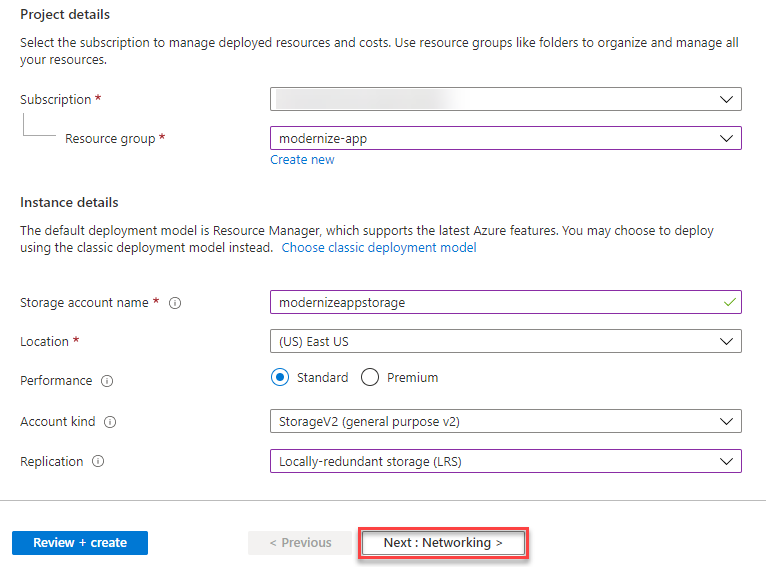
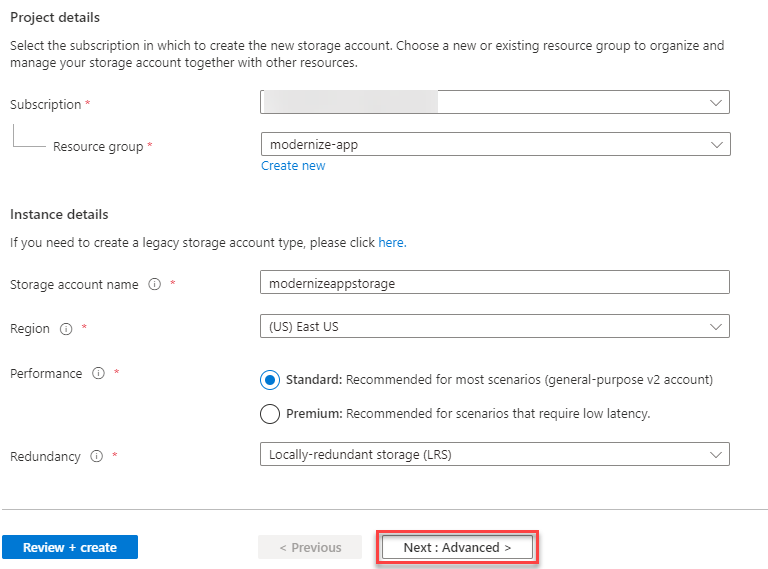
Updating the before-the-lab guide with latest images

diff --git a/Hands-on lab/Before the HOL - Innovate and modernize apps with Data and AI.md b/Hands-on lab/Before the HOL - Innovate and modernize apps with Data and AI.md
@@ -91,7 +91,7 @@ In this task, you will use the Azure Portal to create a new Azure Resource Group
 
 3. In the left-hand menu, select **Resource Groups**.
 
-4. At the top of the screen select the **Add** button.
+4. At the top of the screen select the **+ New** option to add a new resource group.
 
    ![Add Resource Group Menu](media/add-resource-group-menu.png 'Resource Group Menu')
 
@@ -121,25 +121,22 @@ Azure Data Lake Storage Gen2 will be critical for several integration points thr
    | Resource group                 | _select `modernize-app`_                    |
    | Storage account name           | _`modernizeappstorage#SUFFIX#`_             |
    | Location                       | _select the resource group's location_      |
-   | Pricing tier                   | _select Standard_                           |
-   | Account kind                   | _select StorageV2 (general purpose v2)_     |
+   | Performance                    | _select Standard_                           |
    | Replication                    | _select Locally-redundant storage (LRS)_    |
 
     > **Note**: Please replace the `#SUFFIX#` tag in the storage account name with a suffix you would like to use. Names of storage accounts must be globally unique.
 
     ![The form fields are completed with the previously described settings.](media/azure-create-storage-account-1.png 'Storage Account Settings')
 
-    Then select **Next : Networking >**.
+    Then select **Next : Advanced >**.
 
-5. Leave the networking settings at their default values: a connectivity method of **Public endpoint (all networks)** and a network routing preference of **Microsoft network routing (default)**.  Select **Next : Data protection >** and leave these settings at their default values.
-
-6. Select the **Advanced** tab in the menu, bypassing **Data protection**. In the Data Lake Gen2 section, enable **Hierarchical namespace**.
+5. Select the **Advanced** tab in the menu, bypassing **Data protection**. In the Data Lake Gen2 section, enable **Hierarchical namespace**.
 
     ![The Hierarchical namespace option is enabled.](media/azure-create-storage-account-2.png 'Storage Account Advanced Settings')
 
     >**Note**: Here, you may need to configure the **Blob access tier (default)** as **Hot**.
 
-7. Select **Review + create**. On the review screen, select **Create**.
+6. Select **Review + create**. On the review screen, select **Create**.
 
 ### Task 3: Provision an IoT Hub
 
@@ -285,21 +282,21 @@ The hands-on lab will use Cosmos DB as a key component in the event sourcing arc
 
 2. Select **+ New** on the Azure Cosmos DB page.
 
-3. Within the **Create Azure Cosmos DB Account** form, complete the following:
+3. On the Select API option menu, choose **Core (SQL)** and select **Create**.
+
+    ![Create a Core/SQL API Cosmos DB collection.](media/azure-create-cosmos-db-choose.png 'Cosmos DB')
+
+4. Within the **Create Azure Cosmos DB Account** form, complete the following:
 
    | Field                          | Value                                       |
    | ------------------------------ | ------------------------------------------  |
    | Subscription                   | _select the appropriate subscription_       |
    | Resource group                 | _select `modernize-app`_                    |
    | Account name                   | _`modernize-app-#SUFFIX#`_                  |
-   | API                            | _select `Core (SQL)`_                       |
    | Location                       | _select the resource group's location_      |
    | Capacity mode                  | _select `Provisioned throughput`_           |
    | Apply Free Tier Discount       | _select `Apply` if available_               |
    | Account Type                   | _select `Non-Production`_                   |
-   | Geo-Redundancy                 | _select `Disable`_                          |
-   | Multi-region Writes            | _select `Disable`_                          |
-   | Availability Zones             | _select `Disable`_                          |
 
    > **Note**: Please replace the `#SUFFIX#` tag in the account name with a suffix you would like to use. Names of Cosmos DB accounts must be globally unique.
 
@@ -307,7 +304,7 @@ The hands-on lab will use Cosmos DB as a key component in the event sourcing arc
 
    ![The form fields are completed with the previously described settings.](media/azure-create-cosmos-db-1.png 'Cosmos DB Settings')
 
-4. Select **Review + create**. On the review screen, select **Create**. This may take 15 minutes or so to complete and while it deploys, you may continue on to other tasks.
+5. Select **Review + create**. On the review screen, select **Create**. This may take 15 minutes or so to complete and while it deploys, you may continue on to other tasks.
 
 ### Task 7: Provision a Function App
 
@@ -359,6 +356,7 @@ In this task, you will deploy a new Azure Database for PostgreSQL, selecting the
    | ------------------------------ | ------------------------------------------  |
    | Subscription                   | _select the appropriate subscription_       |
    | Resource group                 | _select `modernize-app`_                    |
+   | Preview features               | _select Enable preview features_            |
    | Server group name              | _`modernize-app-#SUFFIX#`_                  |
    | Location                       | _select the resource group's location_      |
    | Password                       | _enter a valid password you will remember_  |
@@ -367,9 +365,13 @@ In this task, you will deploy a new Azure Database for PostgreSQL, selecting the
 
    ![The form fields are completed with the previously described settings.](media/azure-create-postgres-2.png 'Hyperscale (Citus) server group')
 
-5. Select **Configure server group**. Leave the settings in that section unchanged and select **Save**.
+5. Select **Configure server group**.  Select the **Basic** tier and leave settings at their lowest levels.  Then, select **Save**.
+
+    ![The form fields are completed with the previously described settings.](media/azure-create-postgres-2b.png 'Compute + storage')
 
 6. Select **Review + create** and then **Create** to provision the server. Provisioning takes **up to 10** minutes.
+
+    > **Note**: If you are prompted to configure the IP address in firewall rules, select **Create server group without firewall rules** to continue; we will configure these rules after provisioning.
 
 7. Select **Overview** to view the deployment details, then select **Go to resource**.
 
@@ -383,7 +385,7 @@ In this task, you will deploy a new Azure Database for PostgreSQL, selecting the
 
     ![The overview page shows the Coordinator name value after deployment is complete.](media/azure-create-postgres-3.png 'Coordinator name')
 
-9. Select **Networking** in the left-hand menu underneath Security. In the Firewall rules blade, select **Yes** to *allow Azure services and resources to access this server group*, then select the **+ Add 0.0.0.0 - 255.255.255.255** link to create a new firewall rule to allow all connections (from your machine and Azure services).
+9. Select **Networking** in the left-hand menu underneath Settings. In the Firewall rules blade, select **Yes** to *allow Azure services and resources to access this server group*, then select the **+ Add 0.0.0.0 - 255.255.255.255** link to create a new firewall rule to allow all connections (from your machine and Azure services).
 
    ![The Firewall rules blade is displayed.](media/azure-create-postgres-6.png 'Firewall rules')
 
